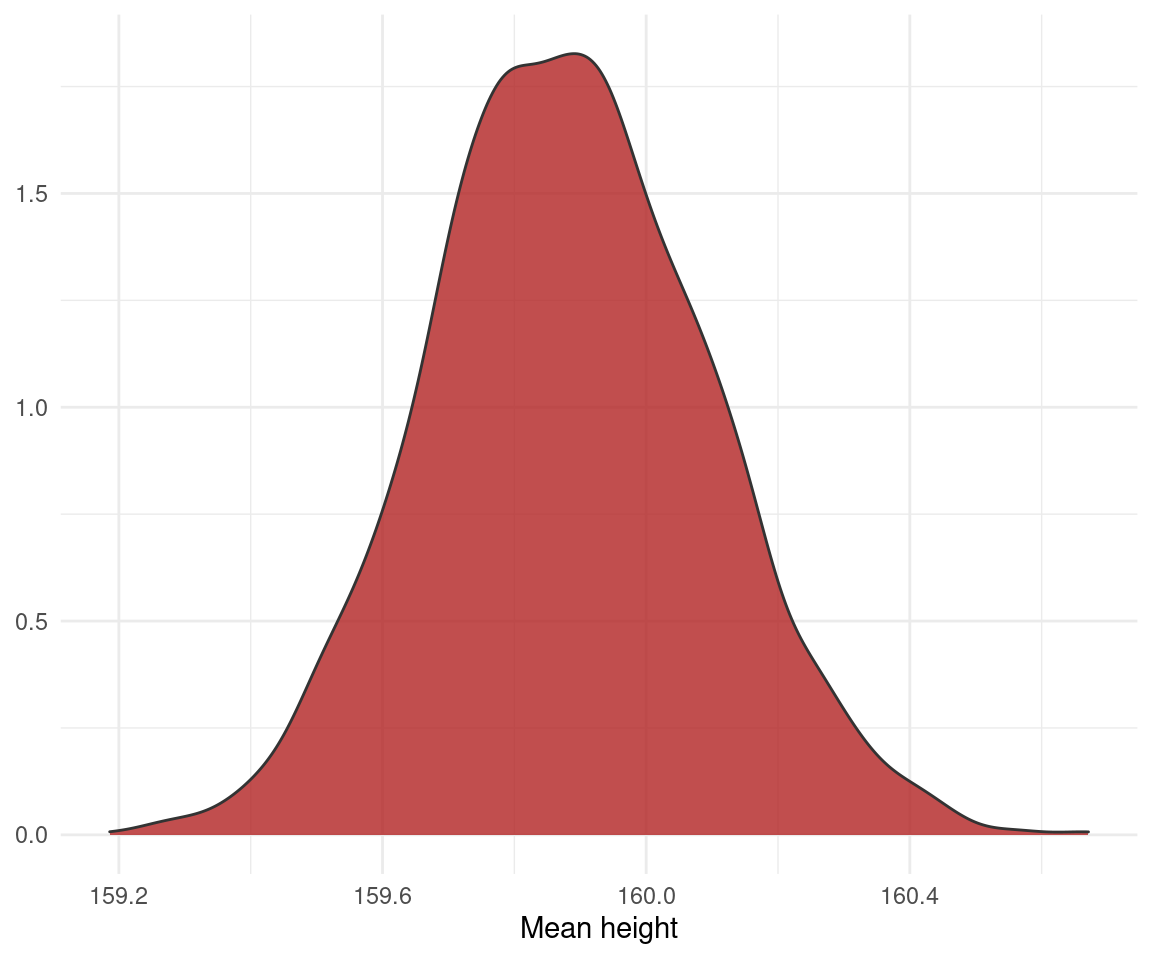
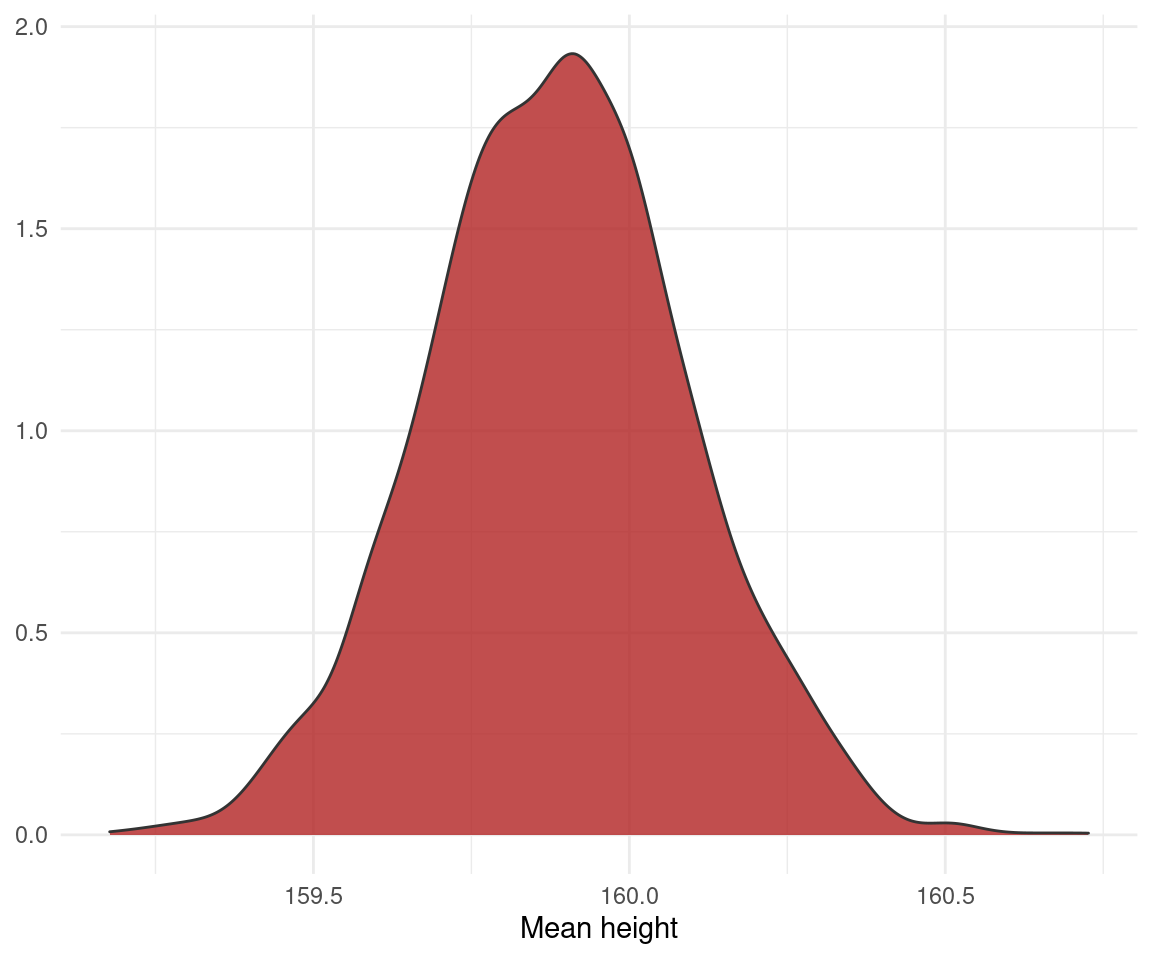
update tags for statistical regression series

diff --git a/content/post/one_sample_t_test.html b/content/post/one_sample_t_test.html
@@ -4,11 +4,11 @@ author: "Gregor Mathes"
 date: "2021-03-27"
 slug: Regression tests
 categories: []
-tags: [Regression, t-test, Bayes, Statistics]
+tags: [Regression in disguise, Regression, t-test, Bayes, Statistics]
 subtitle: ''
 summary: 'Modeling the central tendency within one sample'
 authors: [Gregor Mathes]
-lastmod: "28 März, 2021"
+lastmod: "01 April, 2021"
 featured: no
 projects: [Regression tests]
 output:
@@ -184,11 +184,11 @@ options(mc.cores = parallel::detectCores())  # Use all cores</code></pre>
 ## 
 ## Population-Level Effects: 
 ##           Estimate Est.Error l-95% CI u-95% CI Rhat Bulk_ESS Tail_ESS
-## Intercept   159.88      0.21   159.48   160.31 1.00     2647     2149
+## Intercept   159.89      0.21   159.48   160.29 1.00     2097     1684
 ## 
 ## Family Specific Parameters: 
 ##       Estimate Est.Error l-95% CI u-95% CI Rhat Bulk_ESS Tail_ESS
-## sigma     2.06      0.15     1.79     2.37 1.00     2644     2084
+## sigma     2.06      0.14     1.81     2.37 1.00     2457     1859
 ## 
 ## Samples were drawn using sampling(NUTS). For each parameter, Bulk_ESS
 ## and Tail_ESS are effective sample size measures, and Rhat is the potential
@@ -207,7 +207,7 @@ Now to the interpretation: The whole distribution does not include the average h
 <pre class="r"><code>hypothesis(result_brms, &quot;Intercept &lt; 171&quot;)</code></pre>
 <pre><code>## Hypothesis Tests for class b:
 ##              Hypothesis Estimate Est.Error CI.Lower CI.Upper Evid.Ratio
-## 1 (Intercept)-(171) &lt; 0   -11.12      0.21   -11.46   -10.76        Inf
+## 1 (Intercept)-(171) &lt; 0   -11.11      0.21   -11.44   -10.77        Inf
 ##   Post.Prob Star
 ## 1         1    *
 ## ---
@@ -270,10 +270,10 @@ Now to the interpretation: The whole distribution does not include the average h
 </tr>
 <tr class="odd">
 <td align="left">Bayesian Regression</td>
-<td align="right">-11.12</td>
+<td align="right">-11.11</td>
 <td align="right">0.21</td>
 <td align="right">-11.52</td>
-<td align="right">-10.69</td>
+<td align="right">-10.71</td>
 <td align="right">NA</td>
 </tr>
 </tbody>
